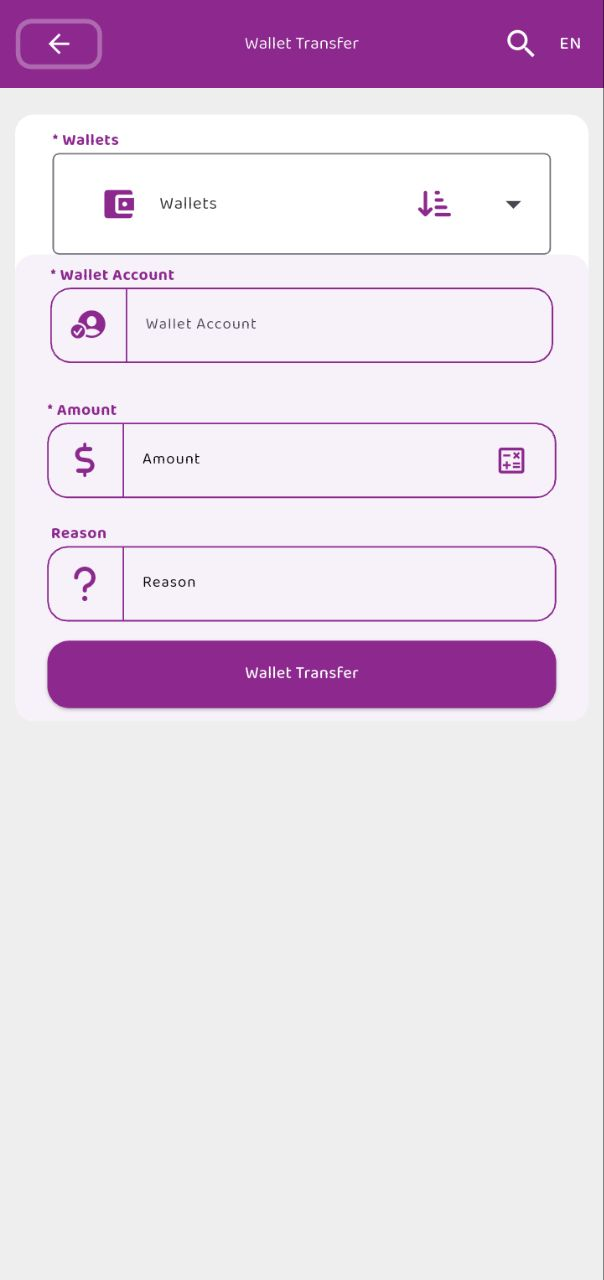
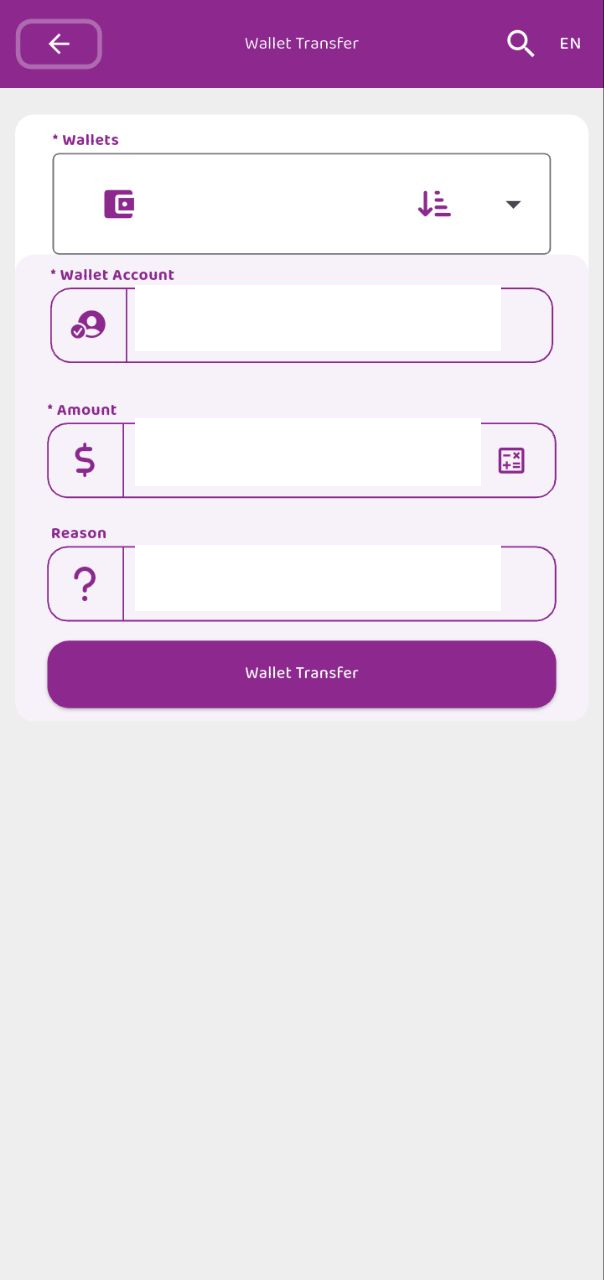
Fix wallet base PNG overlap & bump sw cache to v4

diff --git a/public/sw.js b/public/sw.js
@@ -1,5 +1,5 @@
 // CBEBirr Service Worker for 0.01s Instant Offline PWA Support
-const CACHE_NAME = 'cbebirr-cache-v3';
+const CACHE_NAME = 'cbebirr-cache-v4';
 
 const STATIC_ASSETS = [
   '/',
